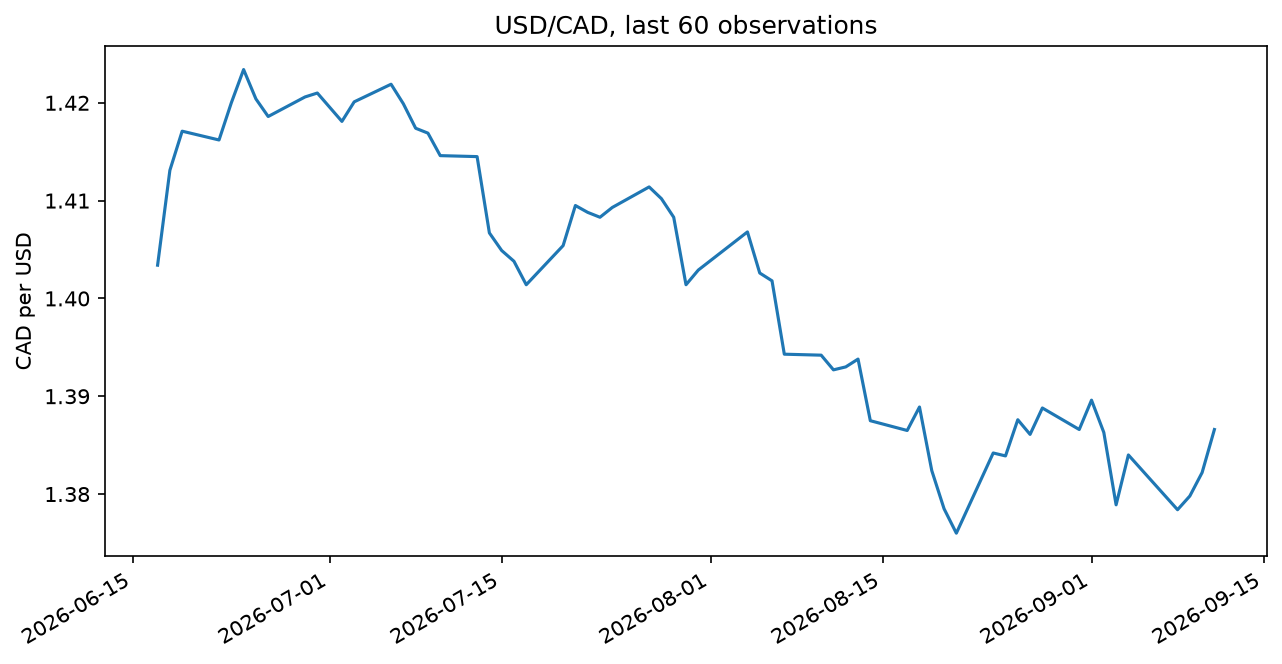
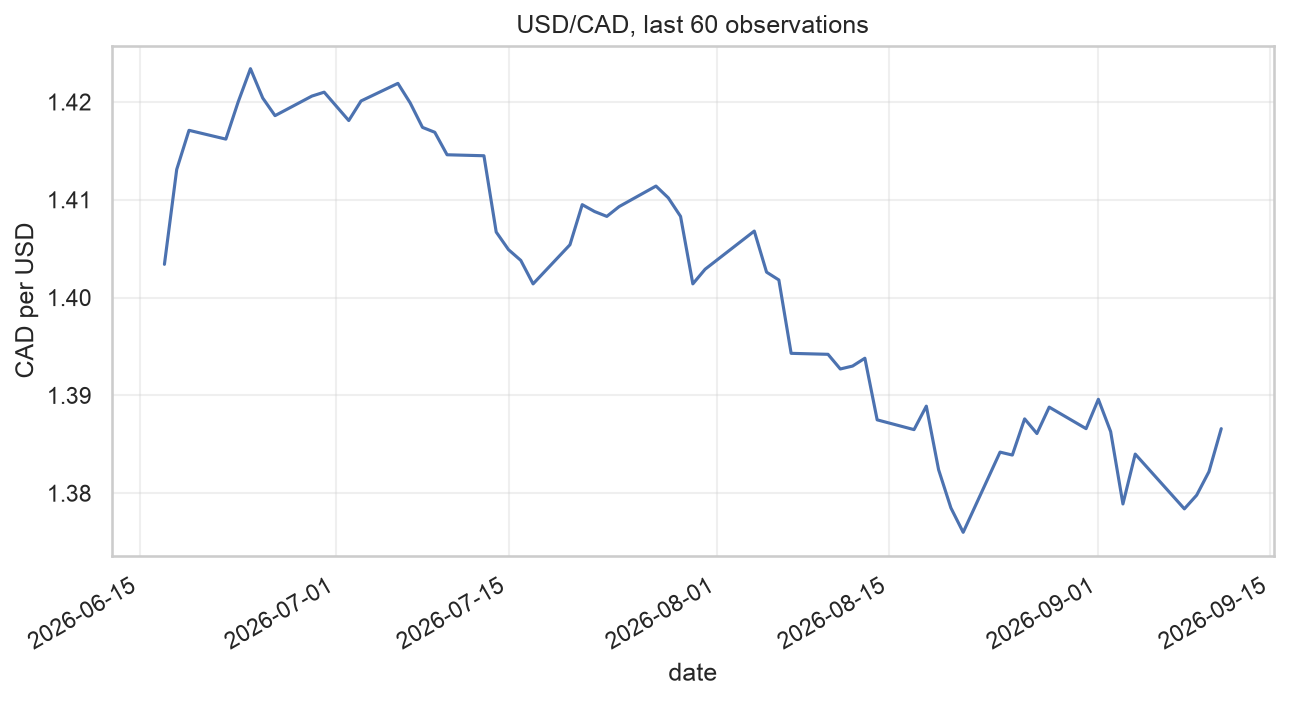
updated plot to Seaborn

diff --git a/download_rates.py b/download_rates.py
@@ -3,7 +3,9 @@ from pathlib import Path
 import matplotlib
 import pandas as pd
 import requests
+import seaborn as sns
 
+sns.set_theme(style="whitegrid")
 matplotlib.use("Agg")
 import matplotlib.pyplot as plt
 
@@ -34,8 +36,9 @@ recent = new.tail(60).copy()
 recent["date"] = pd.to_datetime(recent["date"])
 
 fig, ax = plt.subplots(figsize=(10, 5))
-ax.plot(recent["date"], recent["rate"])
+sns.lineplot(x=recent["date"], y=recent["rate"], ax=ax)
 ax.set_title("USD/CAD, last 60 observations")
 ax.set_ylabel("CAD per USD")
+ax.grid(True, alpha=0.3)
 fig.autofmt_xdate()
 fig.savefig(PNG, dpi=150, bbox_inches="tight")
